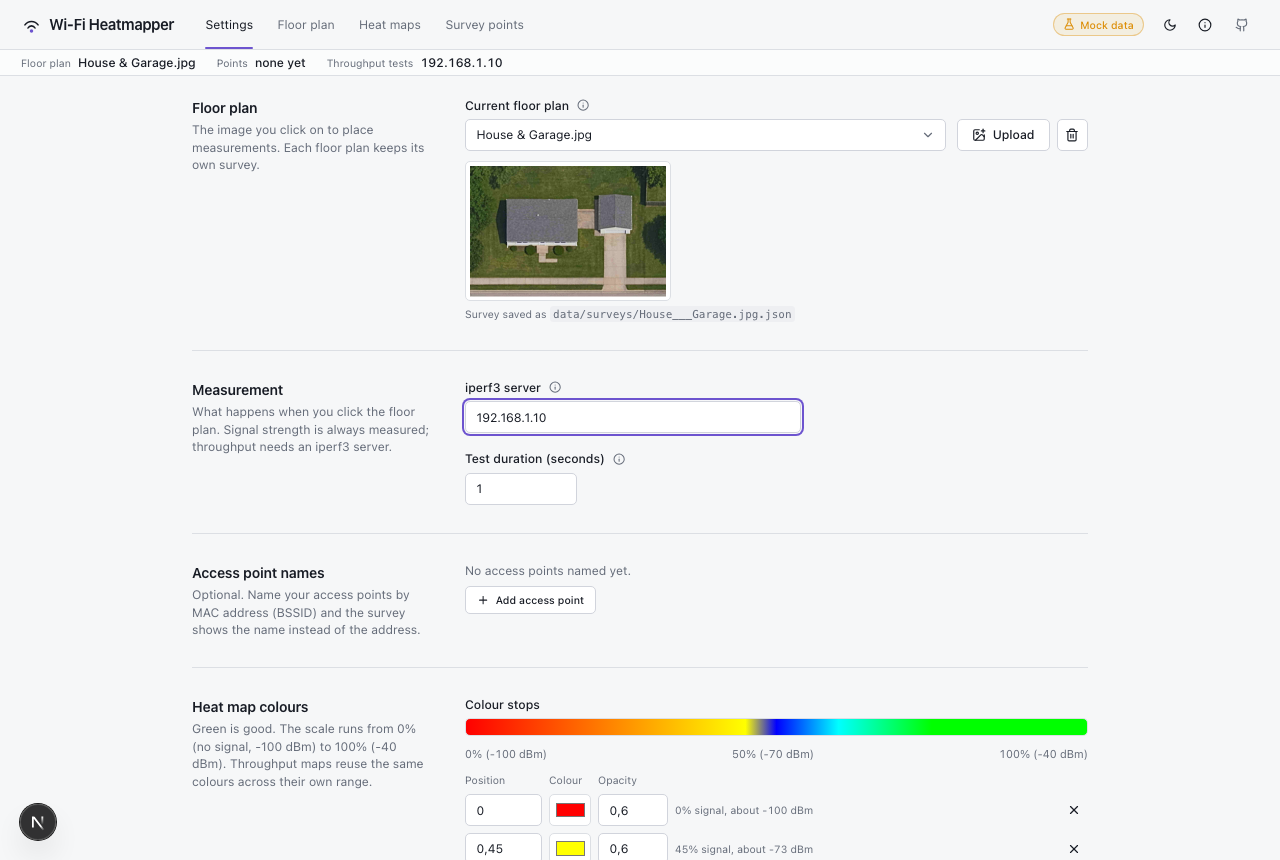
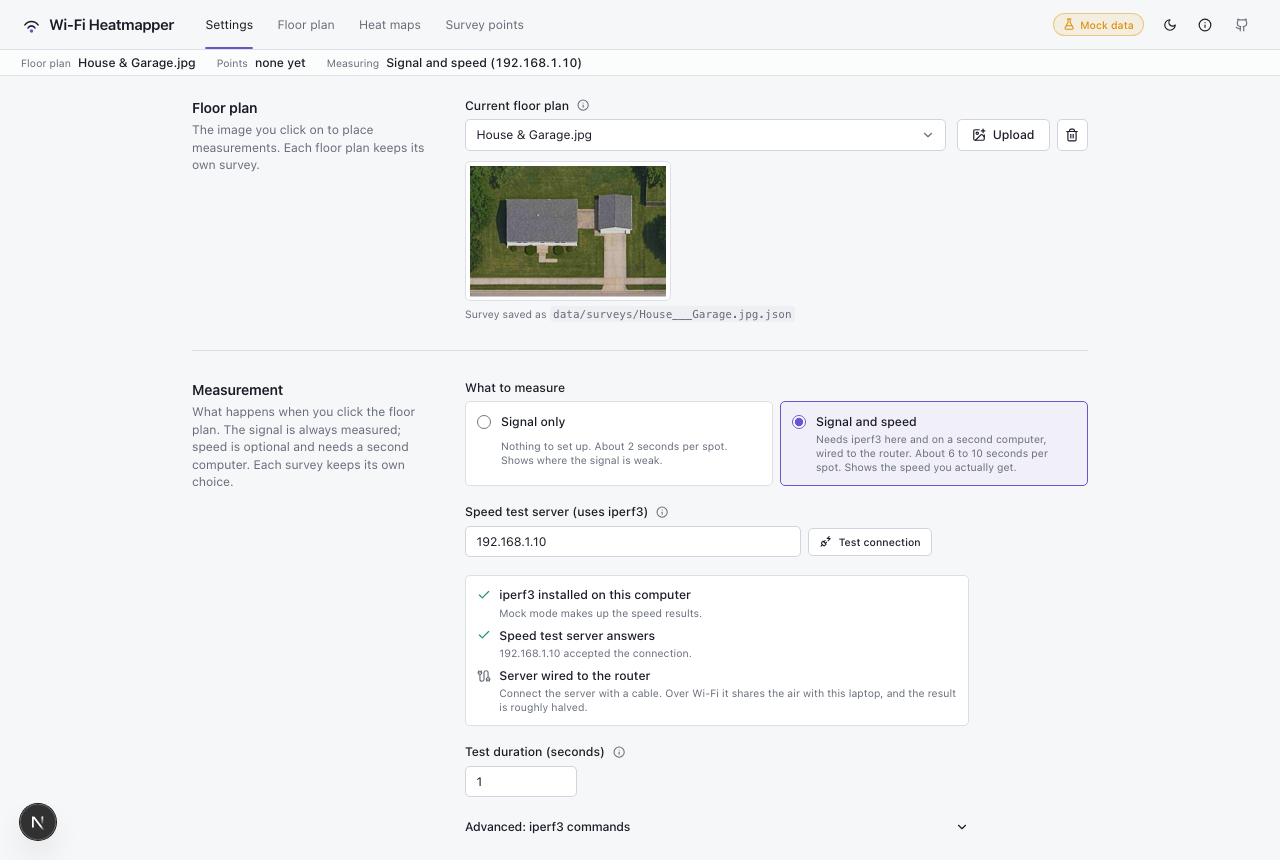
Guide: signal only or with speed, and measuring speed in plain words
getting-started gets "Signal only or with speed?" with the pros and cons.
throughput.md becomes "Measuring speed": the second computer, why it
should be wired, both directions, what happens when the speed test can't
run, and the 100 Mbps cap of the fixed-rate (UDP) tests. using-the-app
covers the new Settings, panel, heat map and table behaviour. New
Settings screenshot.

diff --git a/docs/guide/throughput.md b/docs/guide/throughput.md
@@ -1,54 +1,103 @@
 ---
-title: Measuring speed with iperf3
-description: Add TCP and UDP throughput, jitter and packet loss to every measurement.
+title: Measuring speed
+description: Add download and upload speed to every measurement, with a second computer running iperf3.
 order: 4
 ---
 
-# Measuring speed with iperf3
+# Measuring speed
 
-Signal strength alone tells you where the Wi-Fi is weak. Throughput tells
-you how fast it actually is. Wi-Fi Heatmapper measures it with
-[iperf3](https://iperf.fr), which needs two computers: the laptop you walk
-around with, and a second one on your network that stays put.
+Signal strength tells you where the Wi-Fi is weak. Speed tells you how fast
+it actually is where you stand. A strong signal is not always fast:
+interference, a busy channel or a slow link between mesh nodes can make a
+spot slow that looks fine on the signal map. Technically the app measures
+*throughput*, the amount of data that gets through per second, in Mbps.
+
+To measure speed, choose **Signal and speed** under **What to measure** in
+Settings. The choice is saved with each survey, so one floor plan can measure
+signal only and another signal and speed.
+
+## The second computer
+
+A speed test needs something to send data to and receive it from. Wi-Fi
+Heatmapper uses [iperf3](https://iperf.fr), a free tool, on two computers:
+
+* **This laptop**, the one you walk around with. The app runs iperf3 here.
+* **A second computer** on your network that stays put while you survey: a
+  desktop, a Raspberry Pi or a NAS. It runs `iperf3 -s` (the "speed test
+  server") and waits.
+
+**Connect the second computer to the router with a cable.** Then the test
+measures only the Wi-Fi between the laptop and the router. If the server is
+on Wi-Fi too, every test crosses the air twice and the results come out at
+roughly half, and they vary with where the server is.
+
+Each spot tests **both directions**: download (server to laptop) and upload
+(laptop to server). Wi-Fi is often slower in one direction than the other,
+for example when the laptop's antennas are weaker than the router's.
 
 ## Set it up
 
-1. Install `iperf3` on the laptop. Homebrew (on a Mac) and the Linux `.deb`
+1. Install iperf3 on this laptop. Homebrew (on a Mac) and the Linux `.deb`
    do this for you. On Windows, install it so it is on your `PATH`, for
    example `scoop install iperf3` or `choco install iperf3`; the app also finds
    iperf3 installed by winget. `iperf3 --version` should work in a terminal.
    Tools called `iperf` or `iperf2` are different and incompatible.
-2. Install `iperf3` on another computer on your network, wired if possible
-   (a desktop, a Raspberry Pi, a NAS), and start it with `iperf3 -s`.
-3. In Settings, enter that computer's address (or `host:port`) as the iperf3
-   server. Leave it at `localhost` to measure signal strength only.
+2. Install iperf3 on the second computer and start it with `iperf3 -s`.
+3. In Settings, choose **Signal and speed** and enter the second computer's
+   address as the **Speed test server**: `192.168.1.10`, `nas.local`, or with
+   a port, `192.168.1.10:5201`. IPv6 works too: `[fe80::1]:5201`, or a bare
+   address without a port. The port defaults to 5201.
+4. Click **Test connection**. The checklist under the field shows whether
+   iperf3 is installed on this computer and whether the server answers.
 
 A version newer than 3.17 is recommended on both ends, ideally the same one.
-On Windows, running from source, you may need to add iperf3's folder to `PATH` yourself
-(`setx PATH "%PATH%;C:\iperf3"`) and open a new terminal.
-If iperf3 is not installed on the laptop, set the server back to `localhost`
-to measure signal strength only.
+On Windows, running from source, you may need to add iperf3's folder to
+`PATH` yourself (`setx PATH "%PATH%;C:\iperf3"`) and open a new terminal.
 
-## What each measurement runs
+## When the speed test can't run
 
-With a server set, every spot runs TCP and UDP tests in both directions,
-reading the Wi-Fi signal before, between and after them:
+The signal is always saved. If iperf3 is not installed on this laptop, no
+server is set, or the server does not answer, the app skips the speed test,
+saves the signal reading, and says so: the panel in the corner shows **Saved
+without speed** with the reason instead of a green tick, and the strip under
+the header warns that the newest point has no speed. The same happens if a
+test fails part way, for example because the server is busy with another
+test. This works the same on macOS, Windows and Linux.
+
+Fix the cause (start `iperf3 -s`, check the address, or open port 5201 in the
+server's firewall) and measure the spot again, or switch the survey back to
+**Signal only**.
+
+## What each spot runs
+
+With speed on, every spot runs four short tests, reading the Wi-Fi signal
+before, between and after them:
 
 | Test | Heat maps you get |
 |---|---|
-| TCP download, TCP upload | throughput (Mbps), retransmits (download) |
-| UDP download, UDP upload | throughput (Mbps), jitter (ms), lost packets, packets received |
+| Download and upload speed (TCP) | speed in Mbps; resent data (retransmits) for download |
+| Fixed-rate download and upload (UDP) | speed in Mbps, jitter (variation in delay, ms), lost packets, packets received |
 
-**Test duration** in Settings sets the seconds per test; one second is enough
-for a survey. The exact commands are editable under **iperf3 commands** in
-Settings; `{server}`, `{port}` and `{duration}` are filled in from the
-settings above.
+The download and upload tests send as fast as the connection allows. The
+fixed-rate tests send at a steady rate and show how evenly the data arrives,
+which matters for calls and games.
+
+**The fixed-rate (UDP) tests are capped at 100 Mbps** by `-b 100M` in their
+commands, which is safe on most networks. If your UDP results sit at exactly
+100 Mbps, the connection can do more: raise the cap, for example to
+`-b 500M`.
+
+**Test duration** sets the seconds per test; one second is enough for a
+survey, so a spot takes about 6 to 10 seconds in all. Longer tests give
+steadier numbers. The exact commands are editable under **Advanced: iperf3
+commands** in Settings; `{server}`, `{port}` and `{duration}` are filled in
+from the settings above.
 
 ## Comparing before and after
 
 Use **Colour scales** on the **Heat maps** tab to fix the lower and upper
-value of each map, for example TCP download 0–500 Mbps and UDP upload jitter
-0–20 ms. Use the same ranges in your before and after surveys (say, before
-and after adding a mesh node) and the colours mean the same numbers. Ranges
-are saved with each survey and used in downloaded maps. See
+value of each map, for example download speed 0–500 Mbps and fixed-rate
+upload jitter 0–20 ms. Use the same ranges in your before and after surveys
+(say, before and after adding a mesh node) and the colours mean the same
+numbers. Ranges are saved with each survey and used in downloaded maps. See
 [heat maps](using-the-app.md#heat-maps) for units and details.

diff --git a/docs/guide/using-the-app.md b/docs/guide/using-the-app.md
@@ -8,7 +8,9 @@ order: 3
 
 wifi-heatmapper has four sections, shown as tabs in the header. The strip
 under the header always shows which floor plan you are working on, how many
-points it has, and whether throughput tests are on.
+points it has, and what it measures: **Signal only**, or **Signal and speed**
+with the server's address. In a speed survey it also warns when no server is
+set or the newest point was saved without speed.
 
 The header also has a light/dark switch and an "i" button that opens the
 About dialog with the version, OS and iperf3 details to include in bug reports.
@@ -24,22 +26,33 @@ workflow. "Got it" hides it for good; the About dialog can show it again.
   upload a PNG, JPEG or WebP. Each floor plan keeps its own survey in
   `data/surveys/<name>.json`. The trash button deletes the image and its
   survey.
-* **iperf3 server** – address (or `host:port`) of a computer running
-  `iperf3 -s`. Leave it at `localhost` to measure signal strength only.
-* **Test duration** – seconds per iperf3 test. One second is enough for a
-  survey.
+* **What to measure** – **Signal only** (nothing to set up, about 2 seconds
+  per spot) or **Signal and speed** (needs iperf3 on this computer and on a
+  second one, about 6 to 10 seconds per spot). Each survey keeps its own
+  choice; new surveys start with signal only. See
+  [signal only or with speed?](getting-started.md#signal-only-or-with-speed)
+  The settings below appear only for speed:
+  * **Speed test server (uses iperf3)** – the address of the second computer,
+    which runs `iperf3 -s`: `192.168.1.10`, `nas.local`, `host:port` or
+    `[IPv6]:port`.
+  * **Test connection** and the checklist under it – whether iperf3 is
+    installed on this computer and whether the server answers, plus a
+    reminder to wire the server to the router.
+  * **Test duration** – seconds per test. One second is enough for a survey.
+  * **Advanced: iperf3 commands** – the exact commands run for each test.
+    `{server}`, `{port}` and `{duration}` are filled in from the settings
+    above.
 * **sudo password** – required on macOS and Linux to read the signal. Kept in
   memory only; never written to disk. Not shown on Windows, in Docker, or in
   mock mode.
-* **Access point names** – optional names for BSSIDs, shown instead of the
-  MAC address in point details, the table and the CSV export. End a MAC
+* **Access point names** – optional names for access points, by MAC address
+  (BSSID), shown instead of the address in point details, the table and the
+  CSV export. End a MAC
   address with `*` (for example `aa:bb:cc:dd:ee:*`) to name every BSSID that
   starts with it, such as the per-band BSSIDs of one access point. An exact
   MAC address wins over a prefix, and a longer prefix wins over a shorter one.
 * **Heat map colours** – the colour stops for signal strength (0% = -100 dBm,
   100% = -40 dBm) and the opacity range of the overlay.
-* **iperf3 commands** – the exact commands run for each test.
-  `{server}`, `{port}` and `{duration}` are filled in from the settings above.
 
 ## Floor plan
 
@@ -47,8 +60,15 @@ workflow. "Got it" hides it for good; the About dialog can show it again.
 
 Stand where you want to measure and click that spot. A pulsing dot marks the
 spot while the measurement runs; the panel in the corner shows progress and
-has a Cancel button. When it finishes, the dot is coloured by signal strength
-and labelled with the percentage.
+has a Cancel button. In a signal-only survey it shows the signal and "Speed:
+not measured (signal only)"; with speed it shows download / upload and the
+fixed-rate (UDP) results as they come in. When it finishes, the dot is
+coloured by signal strength and labelled with the percentage.
+
+If the survey measures speed but the speed test could not run (iperf3 not
+installed, no server, server not answering), the point is still saved: the
+panel says **Saved without speed**, gives the reason and stays open until you
+dismiss it. See [when the speed test can't run](throughput.md#when-the-speed-test-cant-run).
 
 Click a dot to see its details, switch it off (it is then ignored by the heat
 maps) or delete it.
@@ -67,20 +87,27 @@ In mock mode, "Add sample points" fills the plan with synthetic points.
 Tick the measurements you want to see. By default, signal strength uses a
 0–100% scale; other measurements run from 0 to each map's maximum.
 
+The **Speed** maps (download speed, upload speed and the fixed-rate UDP
+tests) appear once at least one point has a speed reading. Until then a line
+under the list says the survey measures signal only, with a link to
+Settings. **Speed detail** picks what each speed map shows: speed in Mbps,
+jitter (variation in delay), lost or received packets, or resent data
+(retransmits).
+
 **Signal-to-noise ratio** (RSSI minus the noise floor, in dB; 0–50 dB by
 default, higher is better) uses only points with a noise reading. macOS and
 Linux drivers that report noise in `iw dev <interface> survey dump` record it;
 Windows does not, so the option is greyed out for surveys without noise.
 
 Under **Colour scales**, turn on a fixed scale for a map and edit its
-**Lower** and **Upper** values. Each map has independent bounds: TCP download,
-TCP upload, UDP download and UDP upload do not share ranges, even for the
+**Lower** and **Upper** values. Each map has independent bounds: download,
+upload and the two fixed-rate (UDP) tests do not share ranges, even for the
 same parameter. Signal strength has its own range too. The first time you
 enable a fixed scale, it freezes that map's current automatic range. While a
 field is empty or invalid, the last valid range stays active. Use identical ranges in your before and after
 surveys to compare them. Ranges are saved with each survey.
 
-Throughput bounds use Mbps, jitter uses ms, packet values use counts, and
+Speed bounds use Mbps, jitter uses ms, packet values use counts, and
 signal bounds use percent even when its legend shows dBm. The map, legend
 and downloaded PNG all use the chosen range. Values outside it use the
 endpoint colours; measurements are unchanged. Green represents higher
@@ -101,5 +128,6 @@ a caption with the floor plan name, point count and date.
 ![Survey points](../images/points.png)
 
 Every measurement in the survey. Sort by any column, show more columns
-(RSSI, channel, PHY mode, coordinates, and more), filter, switch points off,
-delete a selection, or export everything as CSV.
+(signal in dBm, channel, Wi-Fi standard, coordinates, and more), filter,
+switch points off, delete a selection, or export everything as CSV. The
+download and upload columns appear once a point has a speed reading.

diff --git a/docs/guide/getting-started.md b/docs/guide/getting-started.md
@@ -34,15 +34,34 @@ Prefer a terminal? See [running from source](run-from-source.md).
 On a Mac, click **Allow Location access** in Settings once: macOS then lets
 the app see your network's name. Your location itself is not used.
 
+## Signal only or with speed?
+
+Every survey measures the signal. It can also measure speed: how fast data
+actually moves between this laptop and a second computer on your network.
+You choose under **What to measure** in Settings, separately for each
+survey. New surveys start with **Signal only**.
+
+| | Signal only | Signal and speed |
+|---|---|---|
+| Setup | Nothing | iperf3 on two computers; one stays put, wired if possible |
+| Time per spot | About 2 s | About 6–10 s |
+| Tells you | Where coverage is weak | What speed you actually get; catches interference and slow links that look strong |
+| Limits | A strong signal is not always fast | A server on Wi-Fi roughly halves the result; the fixed-rate (UDP) test stops at 100 Mbps by default |
+
+Start with signal only to find the weak rooms. Add speed when you want to
+know whether the Wi-Fi is really what makes a connection slow, or to compare
+before and after a change. [Measuring speed](throughput.md) explains the
+setup.
+
 ## Your first survey
 
 1. **Settings.** Pick the bundled floor plan or upload your own image. A
    photo of a pencil sketch is fine; it does not need to be to scale (see the
-   [FAQ](faq.md#how-do-i-make-a-floor-plan)).
+   [FAQ](faq.md#how-do-i-make-a-floor-plan)). Leave **What to measure** at
+   **Signal only**, or [set up speed tests](throughput.md) first.
 2. **Floor plan.** Stand somewhere, click that spot. The app measures the
-   signal (and throughput, if you [set up iperf3](throughput.md)) and drops a
-   coloured dot there. Do this in every room, twice in big ones, and near the
-   outer walls.
+   signal (and speed, if the survey measures it) and drops a coloured dot
+   there. Do this in every room, twice in big ones, and near the outer walls.
 3. **Heat maps.** Drag the radius until neighbouring spots merge into one
    surface. Download the maps you need.
 4. **Survey points.** Check, switch off or delete individual measurements,

diff --git a/CHANGELOG.md b/CHANGELOG.md
@@ -39,6 +39,18 @@ _This section follows the precepts of [Keep a Changelog](https://keepachangelog.
 
 ### Changed
 
+* **Signal only or signal and speed is now an explicit choice** (#109).
+  Settings has a "What to measure" option per survey, instead of "leave
+  the iperf3 server at localhost". Existing surveys keep what they did:
+  `localhost` or an empty server becomes signal only, any other server
+  signal and speed. New surveys start with signal only. The speed server,
+  test duration and iperf3 commands (now under "Advanced") only show for
+  speed, with a setup checklist and a "Test connection" button. The header
+  strip, the measurement panel, the heat maps and the points table all say
+  which mode the survey is in, and speed maps and columns stay hidden until
+  a point has speed data. The UI says "speed", "download / upload" and
+  "fixed rate (UDP)" instead of throughput and TCP/UDP.
+
 * **Windows reads Wi-Fi details from the Native Wifi API** (`wlanapi.dll`,
   through koffi) instead of parsing `netsh` output, so it works in any
   display language and stores the real RSSI in dBm. 6 GHz networks are
@@ -51,6 +63,17 @@ _This section follows the precepts of [Keep a Changelog](https://keepachangelog.
 
 ### Fixed
 
+* A missing iperf3, a missing or unreachable speed test server, or a failed
+  iperf3 run no longer stops a measurement or loses it. The signal reading
+  is saved and the panel says "Saved without speed" with the reason, the
+  same on macOS, Windows and Linux. Before, macOS and Linux refused to
+  measure without iperf3, Windows lost the reading, and an empty server
+  blocked every measurement (#109).
+* A speed test server given as `host:port` is checked on that port (it
+  was silently skipped), and IPv6 addresses work: `[fe80::1]:5201` or a
+  bare address (#109).
+* The measurement panel's title says "Could not measure" on errors
+  instead of staying at "Starting".
 * The settings API never returns a sudo password, even from an old or
   hand-edited survey file.
 * Windows: each Wi-Fi reading no longer waits about 5 seconds before it is

diff --git a/docs/guide/how-it-works.md b/docs/guide/how-it-works.md
@@ -9,10 +9,14 @@ order: 5
 The app is a small local web server with a browser interface. The desktop app
 is the same server in its own window. When you click the floor plan, the
 server reads the Wi-Fi signal with the tools your system already has, runs
-iperf3 if a server is set, and saves the point to the survey file.
+the speed tests with iperf3 if the survey measures speed, and saves the point
+to the survey file.
 
 Each measurement reads the Wi-Fi signal three times (before, between and
-after the TCP and UDP tests) and stores the average.
+after the speed tests, if any) and stores the average. Whether the speed
+test can run (iperf3 installed, server set and answering) is checked the
+same way on every system; if it can't, the signal is saved without speed
+and the app says why.
 
 ## Where the readings come from
 
@@ -21,7 +25,7 @@ after the TCP and UDP tests) and stores the average.
 | macOS | CoreWLAN, through the app's small Wi-Fi helper | No password. The helper needs Location access to see the network name. From source without the helper: `wdutil` (needs sudo), `ioreg` and `system_profiler`. |
 | Windows | Native Wifi API (`wlanapi.dll`) | Part of Windows, works in any display language. `netsh` is the fallback. On Windows 11 24H2 and later, Location services must be on. |
 | Linux | `iw` | `nmcli` is optional and only lists nearby networks. Uses the first connected managed Wi-Fi interface. |
-| All | `iperf3` | Only for speed tests. See [measuring speed with iperf3](throughput.md). |
+| All | `iperf3` | Only for speed tests. See [measuring speed](throughput.md). |
 
 ## Signal strength in percent and dBm
 

diff --git a/README.md b/README.md
@@ -1,7 +1,7 @@
 # Wi-Fi Heatmapper
 
 **See where your Wi-Fi is weak.** Wi-Fi Heatmapper measures Wi-Fi signal
-strength, and optionally throughput with iperf3, where you stand, and draws
+strength, and optionally real speed, where you stand, and draws
 heat maps of the results on your floor plan. Walk around with a laptop, click
 where you are, and see which rooms need a mesh node or extender, and whether
 a slow connection is really the Wi-Fi's fault.
@@ -60,7 +60,7 @@ The guide lives in [`docs/guide`](docs/guide) and is published at
 - [Getting started](docs/guide/getting-started.md): install and your first survey
 - [Installing the app](docs/guide/install.md): per system, first launch, data and log paths
 - [Using the app](docs/guide/using-the-app.md): every tab and setting
-- [Measuring speed with iperf3](docs/guide/throughput.md)
+- [Measuring speed](docs/guide/throughput.md)
 - [How it works](docs/guide/how-it-works.md): readings per system, signal percent vs dBm, the heat map
 - [Running from source](docs/guide/run-from-source.md): Node.js, mock mode, Docker, logs
 - [AI agents (MCP)](docs/guide/mcp.md): let Claude or another agent read and explain your surveys

diff --git a/docs/guide/mcp.md b/docs/guide/mcp.md
@@ -262,7 +262,8 @@ points, is kept as it is.
 
 | Field | Value |
 | --- | --- |
-| `iperfServerAdrs` | `"192.168.1.10"`, `"nas.local:5201"`, or `"localhost"` to turn throughput tests off |
+| `measureSpeed` | `true` measures signal and speed (iperf3), `false` signal only |
+| `iperfServerAdrs` | the speed test server, `"192.168.1.10"` or `"nas.local:5201"`. Set without `measureSpeed`, `"localhost"` also turns speed off and any other server turns it on, as before |
 | `testDuration` | seconds per iperf3 test, 1 to 60 |
 | `iperfCommands` | any of `tcpDownload`, `tcpUpload`, `udpDownload`, `udpUpload`; the others are kept |
 | `apMapping` | the whole list of `{ "apName", "macAddress" }`; a MAC address may end in `*` to match every BSSID that starts with it |

diff --git a/docs/guide/install.md b/docs/guide/install.md
@@ -147,13 +147,13 @@ for your sudo password, which is kept in memory only.
 Surveys and floor plans: `~/.local/share/com.github.hnykda.wifi-heatmapper/data`
 Log: `~/.local/share/com.github.hnykda.wifi-heatmapper/logs/server.log`
 
-## iperf3 for throughput tests
+## iperf3 for speed tests
 
 Signal strength works out of the box. To also measure speed you need
 [iperf3](https://iperf.fr/iperf-download.php) on this computer and on a second
 computer on your network, ideally wired, running `iperf3 -s`. Homebrew and the
 `.deb` install it for you on this computer. See
-[measuring speed with iperf3](throughput.md).
+[measuring speed](throughput.md).
 
 ## What has been tested
 

diff --git a/docs/guide/run-from-source.md b/docs/guide/run-from-source.md
@@ -35,7 +35,7 @@ What else each system needs:
   optional and only lists nearby networks. If reading the signal needs root,
   Settings asks for your sudo password, which is kept in memory only.
 
-For speed tests, see [measuring speed with iperf3](throughput.md).
+For speed tests, see [measuring speed](throughput.md).
 
 ## Try it without any hardware
 
